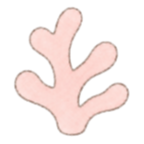
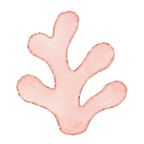
底栏工作台珊瑚换成新发的那张（抠底、对齐留白、粉色轻轻提一点） (#329)
Claude-Session: https://claude.ai/code/session_01PCU4N2TU8cpDL1GQCkRxuB

Changed region(s): [[0.0833, 0.0278, 0.9167, 0.9444], [0.5278, 0.2778, 0.8333, 0.75], [0.8056, 0.6389, 0.8333, 0.6667]]

diff --git a/docs/worklog.md b/docs/worklog.md
@@ -14,6 +14,12 @@
 
 ## 日志
 
+### 2026-11-03 cc：底栏珊瑚换成小续 15:07 新发的那张（粉色、棕色虚线描边）——只改网页，不用重跑安装、不用重部署中转
+
+- 换了 `src/assets/tabbar/workbench.png`：抠掉近白底、高 128 居中（和另外四张留白一致）；描边是图里原有的，没重画、没加程序描边
+- 放进底栏和另外四个比，浅色里略淡，只把粉色饱和度 +18%、亮度 −3%，别的没动
+- 旧的那张（中午粉色描边）已被覆盖
+
 ### 2026-11-03 cc：工作台第一版（底栏第五个，珊瑚）——只改网页，不用重跑服务器安装、不用重部署中转
 
 - **入口**：底栏变五个：主页、记录、**工作台**、记忆、设置（`TabBar.vue`，每格 64px）；珊瑚图标是小续 11/3 在主聊天发的那张（粉色五杈虚线描边），抠掉米白底、尺寸留白对齐另外四张，存 `src/assets/tabbar/workbench.png`。路由 `/bench`（列表，`?f=文件夹` `?tag=标签` `?tags=1` 标签总览）、`/bench/n/:id`（一篇笔记）
